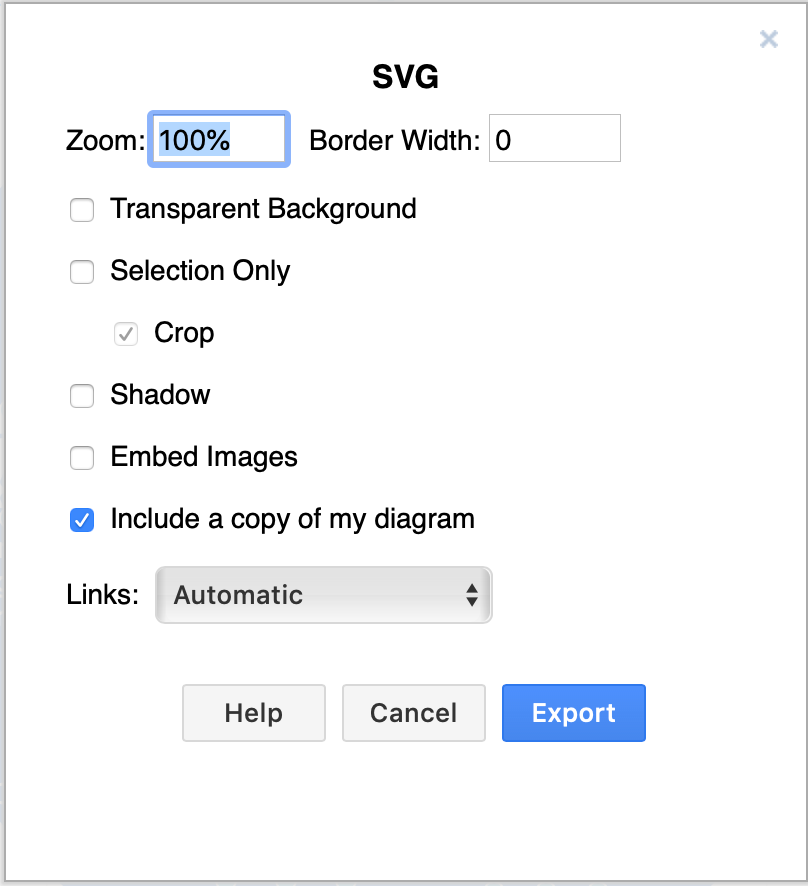
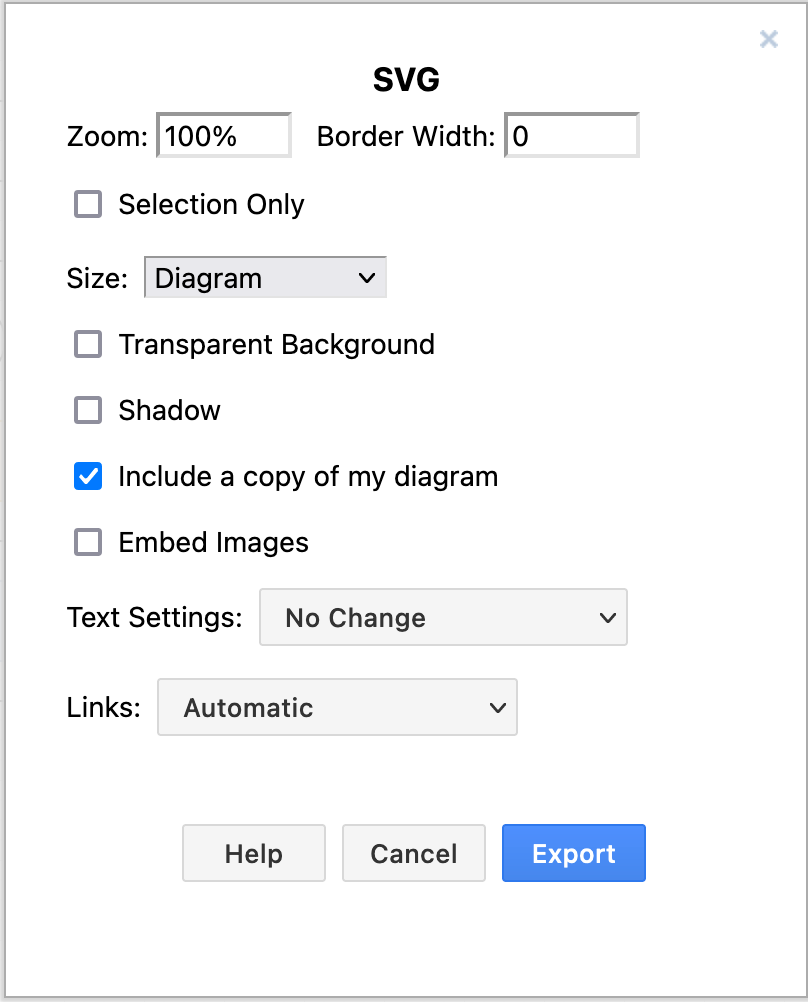
FAQs

diff --git a/doc/faq/svg-export-text-problems.md b/doc/faq/svg-export-text-problems.md
@@ -5,11 +5,45 @@ faq: true
 categories: [Export]
 ---
 
-When you look at a diagram exported to an SVG image in IE or some SVG editors, the text may not display correctly.
+When you look at a [diagram exported to an SVG image](/doc/faq/export-to-svg.html) in IE or some SVG editors, the text may not display correctly.
 
-__Simple explaination__ : The exported SVG is only designed to be displayed in web pages, we didn't design the output to be editable in SVG editors. The text showing ``Text is not SVG - cannot display`` isn't actual SVG, so SVG editors cannot display it.
+__Simple explanation__ : The exported SVG is only designed to be displayed in web pages, we didn't design the output to be editable in SVG editors. The warning that ``Text is not SVG - cannot display`` isn't actual SVG, so SVG editors cannot display it.
 
-__Technical explaination__ : The draw.io editor uses foreign objects (``foreignObject``) in SVG to allow complex, HTML labels on shapes. To disable complex HTML labels by default (so that the output does not contain foreign objects), click [here](https://app.diagrams.net#_CONFIG_UzV3UjUyyk0tSk8F0qrGjqpggeLM3IKcVJ/EpNScYoh4SVFpqqq5CxABAA==). This sets the JSON configuration in the browser that you load it in. That is why a warning is shown. If you accept, the line:
+__Technical explanation__ : The diagrams.net and draw.io editor uses foreign objects (``foreignObject``) in the SVG data to allow complex HTML labels on shapes. 
+
+For example, in the following diagram, some of the shapes have bold and italic words in the label text - they use formatted text.
+<br /><img src="/assets/img/blog/text-label-formatted-text.png" style="width=100%;max-width:400px;height:auto;" alt="You can use different formatting options inside a text label - on part of the label only">
+
+## Export to SVG with different text settings
+
+When you export a diagram as a SVG image (``File > Export as > SVG``), choose which _Text Settings_ you want to use.
+
+* **No Change** includes the warning embedded in the raw SVG data (default). 
+* **Embed Fonts** includes the fonts in the exported SVG file in case the viewer doesn't have the font installed. 
+* **Convert Labels to SVG** transmits the diagram to our servers, generates a PDF, then pipes that through Inkscape, and returns the SVG output.
+<br /><img src="/assets/img/blog/svg-export-text-settings.png" style="width=100%;max-width:250px;height:auto;" alt="Choose how to export formatted text labels when exporting to a SVG file">
+
+Note with this last option:
+
+* You transmit the diagram to our servers. [Diagram data is not stored](/blog/data-governance-lockdown.html) after this PDF/SVG conversion has finished and the SVG output is returned. 
+* The text is converted to a path. Screen readers can't read it and you can't select it.
+* The file size will be larger.
+
+You can also [export your diagram to a PDF file yourself](doc/faq/pdf-print-to.html), and then import that PDF into a tool like Inkscape. This will result in SVG labels in the diagram in the SVG file.
+
+## Disable formatted text and word wrap
+
+You can also disable formatted text and word wrapping for all labels in your diagram before you export it to SVG by following the steps below:
+
+1. Right click on a blank area of the drawing canvas, then choose _Select All_ from the context menu.
+2. In the _Text_ tab of the format panel, uncheck the _Word Wrap_ and _Formatted Text_.
+
+**Note:** When you disable these formatting options, you can still style the label text as a whole. You can not apply different formatting to parts of the label. When you disable word wrap you may have to add manual line breaks to match the previous output.
+
+<img src="/assets/img/blog/svg-export-remove-text-formatting.gif" style="max-width:100%;height:auto;" alt="Disable the Formatted Text and Word Wrap options before exporting to SVG to view it correctly in IE and SVG editors">
+
+### Disable complex HTML labels by default
+To disable complex HTML labels by default (so that the output does not contain foreign objects), click [here](https://app.diagrams.net#_CONFIG_UzV3UjUyyk0tSk8F0qrGjqpggeLM3IKcVJ/EpNScYoh4SVFpqqq5CxABAA==). This sets the JSON configuration in the browser that you load it in. That is why a warning is shown. If you accept, the line:
 
 ```
 "simpleLabels": true
@@ -21,15 +55,3 @@ All modern browsers including Chrome, Firefox, Safari and Microsoft Edge support
 
 The exported SVG will not show all labels when the SVG image file is viewed in most SVG editors (such as Inkscape and Illustrator), as well as some online services such as Wordpress. Instead, you will see a short version of the label and a warning ``Text is not SVG - cannot display`` at the bottom of the SVG export. This warning can be suppressed by using the [svg-warning=0 URL parameter](/doc/faq/supported-url-parameters).
 
-We are aware of the problem and have spent a considerable amount of time researching solutions. However, the subject is very complex and we don't have a fix so far. We will continue to investigate it.
-
-In the meantime, consider [exporting your diagram to a PDF file](doc/faq/pdf-print-to.html) and then import that PDF into a tool like Inkscape. This will give SVG labels.
-
-You can also disable formatted text and word wrapping for all labels in your diagram before you export it to SVG by following the steps below:
-
-1. Right click on a blank area of the drawing canvas, then choose _Select All_ from the context menu.
-2. In the _Text_ tab of the format panel, uncheck the _Word Wrap_ and _Formatted Text_.
-
-**Note:** When you disable these formatting options, you can still style the label text as a whole. You can not apply different formatting to parts of the label. When you disable word wrap you may have to add manual linebreaks to match the previous output.
-
-<img src="/assets/img/blog/svg-export-remove-text-formatting.gif" style="max-width:100%;height:auto;" alt="Disable the Formatted Text and Word Wrap options before exporting to SVG to view it correctly in IE and SVG editors">

diff --git a/doc/faq/export-to-svg.md b/doc/faq/export-to-svg.md
@@ -7,12 +7,21 @@ categories: [Export]
 
 1. Click _File > Export As > SVG_.
 2. Change the export settings to suit your requirements.
-   * Choose the _Zoom_ factor, set a _Border_ width around your diagram, and enable the checkboxes if you want a _Transparent Background_, a _Shadow_ on your shapes, or to include the _Grid_ of the drawing canvas. 
-   * If you only want to export the shapes and connectors that are currently selected, enable the _Selection only_ checkbox. 
-   * Enable _Embed Images_ to include image components, such as clip art, into the SVG.
+   * Choose the _Zoom_ factor, set a _Border_ width around your diagram.
+   * If you only want to export the shapes and connectors that are currently selected, enable the _Selection only_ checkbox. This only appears if you have selected part of your diagram.
+   * Select whether to print the entire _Diagram_ (default) or just a single diagram _Page_ from the _Size_ drop down list.
+   * Enable the checkboxes if you want a _Transparent Background_, a _Shadow_ on your shapes, or to include the _Grid_ of the drawing canvas. 
    * Make sure the checkbox to _Include a copy of my diagram_ is selected if you want to be able to open your diagram and edit it again when you import the SVG file into diagrams.net. 
+   * Enable _Embed Images_ to include image components, such as clip art, into the SVG.
+   * Choose which _Text Settings_ to use for complex formatted text labels (see troubleshooting below). 
    * By default _Links_ will open following the viewer's browser preferences. Select a different behaviour if you want links to always open in a new tab or a new browser window.
    <br /><img src="/assets/img/blog/export-svg-options.png" style="width=100%;max-width:200px;height:auto;" alt="Choose the export settings for the SVG image">
 3. Click _Export_ and select the location to save your SVG file.
 
-**Note:** If you want to add your exported SVG diagram to an online platform that does not support foreign objects in SVG files, you can [disable _Text Formatting_ and _Word Wrap_ on all text elements in your diagram](/blog/diagrams-in-wordpress.html).
+## Troubleshooting 
+
+If you want to add your exported SVG diagram to an online platform that does not support foreign objects in SVG files, you can [disable _Text Formatting_ and _Word Wrap_](/blog/diagrams-in-wordpress.html) on all text elements in your diagram.
+
+If your viewer is displaying a warning in your diagram that the viewer doesn't support SVG 1.1, [export your diagram to SVG using different text settings](/doc/faq/svg-export-text-problems.html). 
+
+Alternatively, [export your diagram to a PDF file](/doc/faq/export-to-pdf.html), and convert that PDF to SVG via an SVG editor like Inkscape.

diff --git a/_posts/2020-06-22-tables.md b/_posts/2020-06-22-tables.md
@@ -39,7 +39,8 @@ Cross-functional flowcharts use categories to group steps in a business process,
 Create a table with horizontal and vertical swimlanes, where you can add process steps into the cells of the table, and join them with connectors to show the process flow.
 
 1. With nothing selected in your diagram, click on the _Table_ tool in the toolbar.
-2. Hold down the ``Ctrl`` key while you select a table with the number of rows and columns you need. Click to add the table with cross-functional swimlanes to the drawing canvas.
+2. Select the _Container_ checkbox, or hold down the ``Ctrl``/``Cmd`` key while you select a table with the number of rows and columns you need. Click to add the table with cross-functional swimlanes to the drawing canvas.
+<br /><img src="/assets/img/blog/table-container-add.png" style="width=100%;max-width:100px;height:auto;" alt="Add a cross-functional table by selecting the Container checkbox in the Table tool in diagrams.net">
 3. Select the table, click on a title cell, then enter the title text. If you are entering one of the row titles, as you enter the text will be centred - it will move into position when you finish adding the text.
 
 As the cells in a cross-functional table function as container shapes, you can add shapes to them. Build your flowchart by placing the steps in their cells and then joining them with connectors.
@@ -111,3 +112,8 @@ When you resize a cell in a cross-functional table, you will resize only that pa
 The HTML table shapes are still available in the _Misc_ shape library (part of the General shape library). Hover over the shapes to see their names.
 
 <img src="/assets/img/blog/table-html.png" style="width=100%;max-width:400px;height:auto;" alt="The older HTML tables are available as shapes in the Misc library in diagrams.net">
+
+You can also merge cells, and unmerge merged table cells via the _Arrange_ tab in the format panel, or using the _Table_ tool in the Sketch whiteboard-like editor theme. 
+* _Merge_ is only available when you have selected multiple adjacent table cells.
+* _Unmerge_ is only available when you have selected a merged cell in a table.
+<br /><img src="/assets/img/blog/arrange-tab-unmerge.png" style="width=100%;max-width:400px;height:auto;" alt="Unmerge table cells in the diagrams.net and draw.io editor via the Arrange tab in the format panel">

diff --git a/_posts/2018-10-07-export-svg.md b/_posts/2018-10-07-export-svg.md
@@ -34,8 +34,17 @@ Your diagram is now ready to be exported to an SVG image.
    - If you have selected part of your diagram before exporting it as an SVG, you'll be able to limit what is saved in the diagram as your _Selection Only_, and _Crop_ the image to fit your selection.
    - Add a _Shadow_ to your diagram.
    - Leave _Include a copy of my diagram_ enabled if you want others to be able to import the SVG back into diagrams.net smoothly.  
+   - Choose how formatted text labels should be output for older SVG viewers that don't support SVG 1.1 - see the note below.
    - Choose how _Links_ behave by altering the setting in the list.
    <br /><img src="/assets/img/blog/export-svg-options.png" style="width=100%;max-width:400px;height:auto;" alt="diagrams.net options when exporting a diagram as an SVG image">
 3. When you have set the options you want, click _Export_ and choose the location to which you want to save the SVG file.
 
 Now you can add the SVG image version of your diagram to your webpage or blog post as you would a normal image file.
+
+### Note: SVG 1.1 and formatted text labels
+
+diagrams.net and the draw.io apps export by default SVG 1.1. Some older viewers have trouble when text contains a variety of formatting information. 
+
+Usually, a warning is embedded in the raw SVG data that only displays when your SVG viewer doesn't support SVG 1.1. When exporting using the steps above, you can choose which _Text Settings_ to use.
+
+See our more recent post for more details about the [_Text Settings_ options for SVG export](/blog/recent-updates-support.html).

diff --git a/doc/faq/table-cross-functional-add.md b/doc/faq/table-cross-functional-add.md
@@ -1,0 +1,19 @@
+---
+title: Add a cross-functional table to your diagram
+layout: page
+faq: true
+categories: [Features]
+---
+
+Cross-functional flowcharts ([tables](/blog/tables.html)) use categories to group steps in a business process.
+
+Create a table with horizontal and vertical swimlanes using the _Table_ tool in the toolbar.
+
+1. With nothing selected in your diagram, click on the _Table_ tool in the toolbar.
+2. Select the _Container_ checkbox, or hold down the ``Ctrl``/``Cmd`` key while you select a table with the number of rows and columns you need. Click to add the table with cross-functional swimlanes to the drawing canvas.
+<br /><img src="/assets/img/blog/table-container-add.png" style="width=100%;max-width:100px;height:auto;" alt="Add a cross-functional table by selecting the Container checkbox in the Table tool in diagrams.net">
+3. Select the table, click on a title cell, then enter the title text. When you enter one of the row titles, the text will be centred - it will move into the correct position when you finish adding the text.
+
+The cells in a cross-functional table function as container shapes so you can add shapes to them and join them with connectors.
+
+<img src="/assets/img/blog/table-cross-functional.png" style="max-width:100%;height:auto;" alt="Add text to a selected table cell just like you would a shape label in diagrams.net">

diff --git a/doc/faq/table-add.md b/doc/faq/table-add.md
@@ -1,0 +1,18 @@
+---
+title: Add a table to your diagram
+layout: page
+faq: true
+categories: [Features]
+---
+
+Use the table tool in the toolbar to add a table to your diagram as you would in Microsoft Word or Google Docs.
+
+1. With nothing selected in your diagram, click on the _Table_ tool in the toolbar.
+<br /><img src="/assets/img/blog/table-insert.png" style="max-width:100%;height:auto;" alt="Insert a table via the diagrams.net toolbar">
+2. Hover over the squares until the number of rows and columns you want are highlighted, then click to insert a table on the drawing canvas. You can add more rows and columns later.
+
+### Add a table title when you insert a table
+
+1. Hold down ``Shift`` and click on the _Table_ tool in the toolbar.
+2. Hover over the squares until the number of rows and columns you want are highlighted, then click to insert a table on the drawing canvas. This will automatically add a title row that spans all of the columns.
+<br /><img src="/assets/img/blog/table-title.png" style="width=100%;max-width:400px;height:auto;" alt="You can insert a table title easily by holding down shift and inserting a table as normal">

diff --git a/doc/faq/image-crop.md b/doc/faq/image-crop.md
@@ -1,0 +1,20 @@
+---
+title: Crop an image
+layout: page
+faq: true
+categories: [Features]
+---
+
+After you have [inserted an image](/doc/faq/add-images.html) into your diagram, you can crop it (clip it) in various shapes.
+
+1. Right click on an image on the drawing canvas and select _Crop_.
+2. Resize the rectangular crop using the grab handles. 
+3. Drag the crop box to move it to another area of the image. 
+4. Change the shape of the crop:
+   * _Ellipse_ sets a circular or ellipse-shaped crop.
+   * _Rounded_ rounds the corners on the rectangular crop.
+5. Click on _Apply_
+
+<img src="/assets/img/blog/crop.gif" style="width=100%;max-width:600px;height:auto;" alt="Crop an embedded or imported image in diagrams.net and draw.io">
+
+This is a non-destructive crop. To reset the crop to the original image, click on _Reset_ in the crop image dialog.

diff --git a/doc/faq/add-images.md b/doc/faq/add-images.md
@@ -17,7 +17,7 @@ Drag the image file on your computer, or drag the image from a web page in your 
 
 <img src="/assets/img/blog/image-insert.gif" style="max-width:100%;height:auto;" alt="Drag and drop your image onto the diagram editor or use the menu to insert it from a URL">
 
-Once the image file has been loaded into the editor, you can resize it or [rotate it just like a shape](/blog/rotate-shapes.html). 
+Once the image file has been loaded into the editor, you can resize it or [rotate it just like a shape](/blog/rotate-shapes.html), or [crop the image](/doc/faq/image-crop.html) into a variety of shapes.
 
 **Via the menu** 
 
